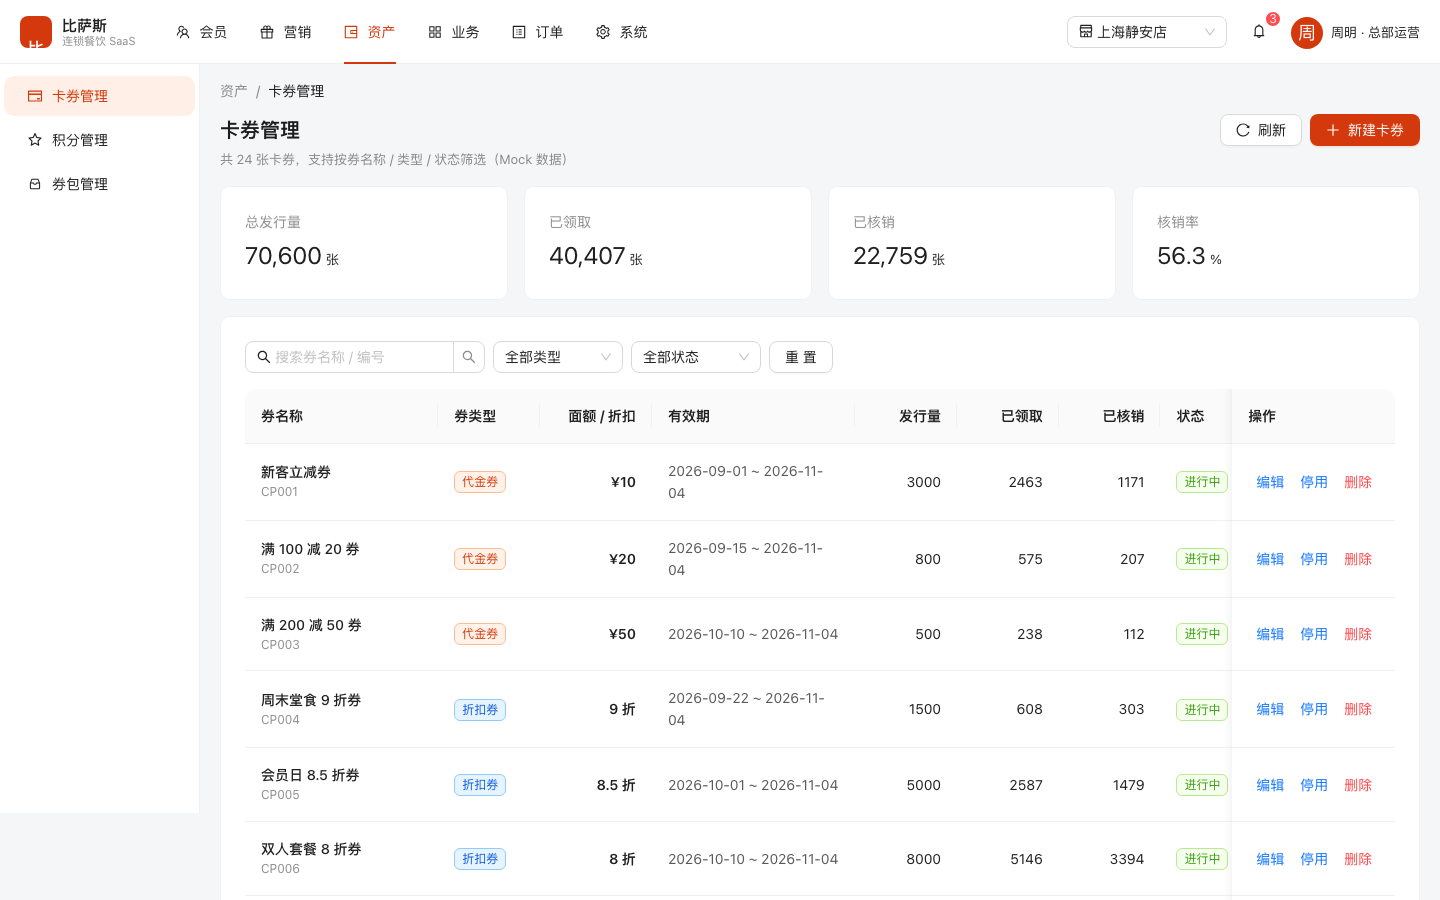
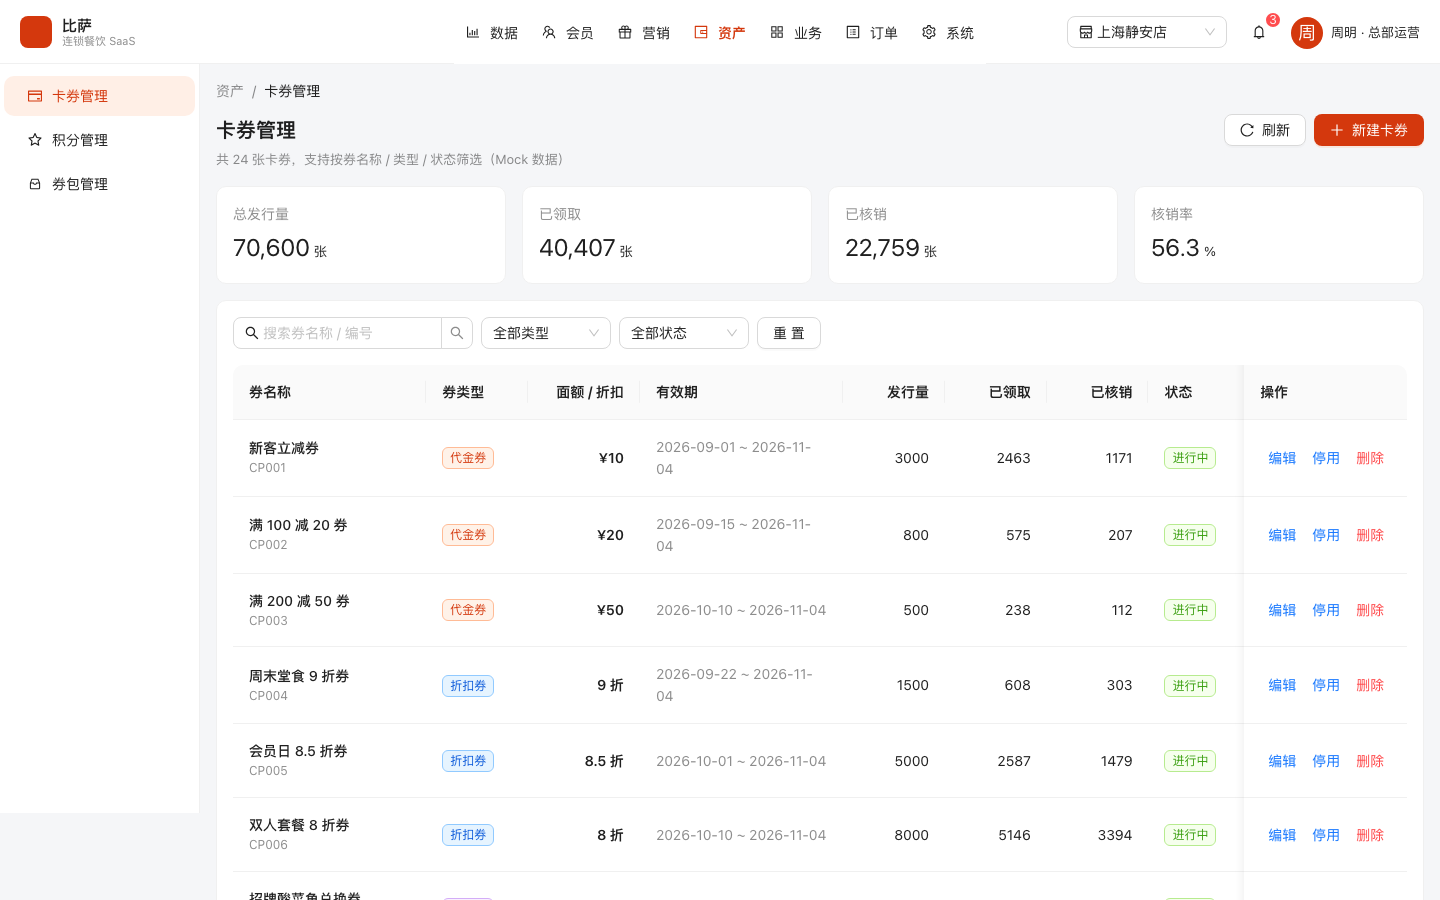
chore: 项目更名为比萨（pisa），调整 README 后端表述
- 品牌名 比萨斯 → 比萨（pisa）：页面标题、顶栏 Logo 文案、面包屑、通知模板、员工邮箱域名、主题存储 key
- 包名 bisas-admin → pisa-admin，README/PLAN/接口文档与 OpenAPI 标题同步
- README 不再表述「不做后端」，改为：本仓库为前端部分，后端由后端团队按 docs/api 契约实现
- 截图按新品牌重新生成（浅色 + 夜间）

diff --git a/src/mock/marketing.ts b/src/mock/marketing.ts
@@ -645,16 +645,16 @@ const notificationSeed: Array<[string, NotificationScene]> = [
 const notificationContentPool: Record<NotificationScene, string[]> = {
   activityStart: [
     '尊敬的{会员昵称}，您关注的「{活动名称}」将在 {开始时间} 开始，满 100 减 20，限时 3 天，欢迎到店品尝～',
-    '【比萨斯】「{活动名称}」已开启！全场满 200 减 50，会员额外赠甜品券，活动截止 {结束时间}，快来参与吧。',
+    '【比萨】「{活动名称}」已开启！全场满 200 减 50，会员额外赠甜品券，活动截止 {结束时间}，快来参与吧。',
     '您好，{活动名称} 报名成功，活动期间到店消费满 129 元即可享受满减，详情可咨询门店服务员。',
   ],
   couponArrived: [
-    '【比萨斯】您有一张「{券名称}」已到账，有效期至 {失效时间}，可在门店消费时出示核销，逾期作废。',
+    '【比萨】您有一张「{券名称}」已到账，有效期至 {失效时间}，可在门店消费时出示核销，逾期作废。',
     '亲爱的{会员昵称}，{券名称} 已放入您的卡券包，消费满 100 元即可使用，本券不与其他优惠同享。',
     '【券到账提醒】「{券名称}」已发放至您的账户，请在 {失效时间} 前使用，过期不补。',
   ],
   orderStatus: [
-    '【比萨斯】您的订单 {订单号} 已支付成功，厨房正在准备，预计 20 分钟内出餐，请耐心等待。',
+    '【比萨】您的订单 {订单号} 已支付成功，厨房正在准备，预计 20 分钟内出餐，请耐心等待。',
     '您的订单 {订单号} 已出餐完成，请凭取餐号 {取餐号} 到取餐台领取，祝您用餐愉快！',
     '订单 {订单号} 退款申请已受理，退款将在 1-3 个工作日内原路退回，请注意查收。',
   ],

diff --git a/src/layouts/AdminLayout.tsx b/src/layouts/AdminLayout.tsx
@@ -66,7 +66,7 @@ export default function AdminLayout() {
         >
           {/* Logo 占位：只保留矩形容器，等正式 Logo 图片替换 */}
           <div
-            aria-label="比萨斯 Logo"
+            aria-label="比萨 Logo"
             style={{
               width: 32,
               height: 32,
@@ -76,7 +76,7 @@ export default function AdminLayout() {
             }}
           />
           <div style={{ lineHeight: 1.2 }}>
-            <div style={{ fontWeight: 600, fontSize: 15 }}>比萨斯</div>
+            <div style={{ fontWeight: 600, fontSize: 15 }}>比萨</div>
             <div style={{ fontSize: 11, color: 'var(--text-secondary)' }}>连锁餐饮 SaaS</div>
           </div>
         </div>
@@ -163,7 +163,7 @@ export default function AdminLayout() {
         <Content style={{ padding: '16px', minWidth: 0 }}>
           <Breadcrumb
             items={[
-              { title: activeModule?.label ?? '比萨斯' },
+              { title: activeModule?.label ?? '比萨' },
               ...(activeChild ? [{ title: activeChild.label }] : []),
             ]}
             style={{ marginBottom: 12 }}

diff --git a/index.html b/index.html
@@ -3,11 +3,11 @@
   <head>
     <meta charset="UTF-8" />
     <meta name="viewport" content="width=device-width, initial-scale=1.0" />
-    <title>比萨斯 · 连锁餐饮 SaaS 管理后台</title>
+    <title>比萨（pisa）· 连锁餐饮 SaaS 管理后台</title>
     <script>
       // 在 React 挂载前应用主题，避免夜间模式刷新时闪白
       try {
-        var stored = localStorage.getItem('bisas-theme');
+        var stored = localStorage.getItem('pisa-theme');
         if (stored === 'light' || stored === 'dark') {
           document.documentElement.dataset.theme = stored;
         } else if (window.matchMedia && window.matchMedia('(prefers-color-scheme: dark)').matches) {

diff --git a/src/mock/ops.ts b/src/mock/ops.ts
@@ -294,7 +294,7 @@ export const staff: Staff[] = Array.from({ length: 26 }, (_, i) => {
     storeName: pick(rng, stores).name,
     status,
     joinedAt: stamp(joined).slice(0, 10),
-    email: `staff${pad(i + 1, 3)}@bisas.com`,
+    email: `staff${pad(i + 1, 3)}@pisa.com`,
     role: pick(rng, staffRolePool),
     lastLogin: status === 'disabled' ? '账号已停用' : stamp(login),
     loginIp:

diff --git a/src/services/ops.ts b/src/services/ops.ts
@@ -273,7 +273,7 @@ export async function saveStaff(input: StaffInput): Promise<Staff> {
     storeName: input.storeName,
     status: input.status,
     joinedAt: input.joinedAt,
-    email: `staff${String(seq).padStart(3, '0')}@bisas.com`,
+    email: `staff${String(seq).padStart(3, '0')}@pisa.com`,
     role: '门店员工',
     lastLogin: '—',
     loginIp: '—',

diff --git a/src/theme.tsx b/src/theme.tsx
@@ -3,7 +3,7 @@ import type { ReactNode } from 'react';
 
 export type ThemeMode = 'light' | 'dark';
 
-const STORAGE_KEY = 'bisas-theme';
+const STORAGE_KEY = 'pisa-theme';
 
 interface ThemeContextValue {
   mode: ThemeMode;

diff --git a/README.md b/README.md
@@ -1,8 +1,8 @@
-# 比萨斯 · 连锁餐饮 SaaS 管理后台（前端原型）
+# 比萨（pisa）· 连锁餐饮 SaaS 管理后台（前端原型）
 
 ![CI](https://github.com/xinyunz631-beep/pisa/actions/workflows/ci.yml/badge.svg)
 
-纯前端页面原型：**不做后端**，所有数据来自内存 Mock 层，交互（筛选、分页、增删改、抽屉详情）都能真实点。
+本仓库是**前端部分**：页面 + 内存 Mock 数据，筛选、分页、增删改、抽屉详情等交互都能真实操作。后端服务由后端团队按 [`docs/api/`](./docs/api/README.md) 的接口契约实现，不在本仓库范围内；当前 Mock 层用于后端就绪前的页面联调与演示，接后端时只需替换 `src/services/*` 的实现。
 
 ## 技术栈
 
@@ -18,7 +18,7 @@
 ## 快速开始
 
 ```bash
-cd 比萨斯
+cd 比萨
 npm install
 npm run dev      # http://127.0.0.1:5173
 npm run build    # 类型检查 + 生产构建
@@ -28,7 +28,7 @@ npm run build    # 类型检查 + 生产构建
 
 ```
 src/
-├── config/nav.tsx        # 导航唯一配置：6 大模块 + 每个模块的二级菜单 + 路由
+├── config/nav.tsx        # 导航唯一配置：7 个模块 + 每个模块的二级菜单 + 路由
 ├── theme.tsx             # 浅色 / 夜间主题（localStorage 持久化 + 跟随系统）
 ├── layouts/AdminLayout.tsx  # 顶部横排模块菜单 / 左侧二级菜单 / 内容区
 ├── pages/
@@ -44,7 +44,7 @@ src/
 │   ├── AfterSale/        # 售后处理
 │   ├── System/           # 岗位 / 人员 / 系统日志
 │   └── Placeholder/      # 占位页
-├── components/           # KpiCard / TrendChart（经营概览使用）
+├── components/           # KpiCard / TrendChart（仪表盘使用）
 ├── services/             # Mock 接口层：member / marketing / assets / business / order / ops / dish / dashboard
 ├── mock/                 # 内存数据库：db / members / marketing / assets / business / ops
 ├── utils/format.ts       # 金额、状态文案与颜色
@@ -69,7 +69,7 @@ src/
 
 - 入口：右上角**头像下拉菜单 → 夜间模式**（带勾选状态）
 - 实现：AntD `darkAlgorithm` 全局切换 + CSS 变量（`--page-bg` / `--panel-bg` / `--border-color` / 文本色）同步变色
-- 持久化：选择写入 `localStorage`（key `bisas-theme`）；首次进入跟随系统 `prefers-color-scheme`
+- 持久化：选择写入 `localStorage`（key `pisa-theme`）；首次进入跟随系统 `prefers-color-scheme`
 - 首屏防闪烁：`index.html` 内联脚本在 React 挂载前先设置 `<html data-theme>`
 
 ## Mock 数据的边界
@@ -116,7 +116,7 @@ src/
 
 ## 团队协作
 
-20 个页面由 Lead + 4 个智能体队员并行完成：营销 5 页、资产 3 页、业务 3 页、售后+系统 4 页各自独立目录与 Mock/Service 层，Lead 负责导航、会员 3 页、公共约定、集成与验收（`tsc`、`vite build`、20 条路由无头渲染检查、截图）。
+21 个页面由 Lead + 4 个智能体队员并行完成：营销 5 页、资产 3 页、业务 3 页、售后+系统 4 页各自独立目录与 Mock/Service 层，Lead 负责数据/会员模块、导航与公共约定、集成与验收（`tsc`、`vite build`、21 条路由无头渲染检查、截图）。
 
 ## 接口契约文档（给后端）
 

diff --git a/docs/api/08-ops.md b/docs/api/08-ops.md
@@ -212,7 +212,7 @@ processing（处理中）──┤
 | `storeName` | string | 所属门店名称，如 `武汉江汉路店` |
 | `status` | string | 人员状态，见 3.6 |
 | `joinedAt` | string | 入职日期 `YYYY-MM-DD`，不得晚于当天 |
-| `email` | string | 邮箱，Mock 规则 `staff{3 位序号}@bisas.com`，新增时服务端生成，不可编辑 |
+| `email` | string | 邮箱，Mock 规则 `staff{3 位序号}@pisa.com`，新增时服务端生成，不可编辑 |
 | `role` | string | 权限角色，如 `门店员工`；新增时服务端默认 `门店员工`，不可由表单指定 |
 | `lastLogin` | string | 最近登录时间；停用账号显示「账号已停用」 |
 | `loginIp` | string | 最近登录 IP；停用账号显示「—」 |
@@ -582,7 +582,7 @@ processing（处理中）──┤
       "storeName": "武汉江汉路店",
       "status": "active",
       "joinedAt": "2026-09-10",
-      "email": "staff001@bisas.com",
+      "email": "staff001@pisa.com",
       "role": "客服专员",
       "lastLogin": "2026-10-18 13:04",
       "loginIp": "192.168.3.86"
@@ -596,7 +596,7 @@ processing（处理中）──┤
       "storeName": "武汉江汉路店",
       "status": "disabled",
       "joinedAt": "2026-10-23",
-      "email": "staff005@bisas.com",
+      "email": "staff005@pisa.com",
       "role": "客服专员",
       "lastLogin": "账号已停用",
       "loginIp": "—"
@@ -675,7 +675,7 @@ processing（处理中）──┤
   "storeName": "上海静安店",
   "status": "active",
   "joinedAt": "2026-11-01",
-  "email": "staff027@bisas.com",
+  "email": "staff027@pisa.com",
   "role": "门店员工",
   "lastLogin": "—",
   "loginIp": "—"
@@ -685,7 +685,7 @@ processing（处理中）──┤
 - **业务规则**：
   - `id` 服务端生成：Mock 规则为 `S` + 内存自增序号补零 3 位（当前 26 条 → 新增为 `S027`）。**Mock 使用内存计数器，刷新后会按 `staff.length` 重置；生产必须使用独立发号器**；
   - **工号唯一**：去空格转大写后校验（排除自身）；重复返回 `40900`（`message: "工号已存在，请更换"`）；
-  - **服务端默认值**（忽略客户端传值）：`email = staff{3 位 id 序号}@bisas.com`、`role = 门店员工`、`lastLogin = "—"`、`loginIp = "—"`；
+  - **服务端默认值**（忽略客户端传值）：`email = staff{3 位 id 序号}@pisa.com`、`role = 门店员工`、`lastLogin = "—"`、`loginIp = "—"`；
   - 姓名/工号去空格；手机号、入职日期校验失败 → `40001`；岗位/门店不存在 → `40001`；
   - 新增人员默认不创建登录账号（Mock 无账号开通流程）；生产建议异步创建账号并返回初始密码/邀请状态，或在人员详情中单独「开通账号」；
   - 前端保存成功后重新拉取列表并关闭抽屉。
@@ -715,7 +715,7 @@ processing（处理中）──┤
   "storeName": "西安钟楼店",
   "status": "active",
   "joinedAt": "2026-09-06",
-  "email": "staff002@bisas.com",
+  "email": "staff002@pisa.com",
   "role": "总部管理员",
   "lastLogin": "2026-10-31 11:43",
   "loginIp": "192.168.3.22"

diff --git a/PLAN.md b/PLAN.md
@@ -1,6 +1,6 @@
-# 比萨斯 · 建设规划
+# 比萨 · 建设规划
 
-> 定位：**连锁餐饮 SaaS 管理后台的前端原型**。不做后端、不接数据库，页面可点、数据可看、交互可演示，用于快速对齐需求与视觉。
+> 定位：**连锁餐饮 SaaS 管理后台的前端侧实现**（页面 + Mock 数据），用于快速对齐需求与视觉。后端服务由后端团队按 `docs/api/` 的接口契约实现，不在本仓库范围内；前后端就绪后替换 `src/services/*` 实现即可联调。
 
 ## 一、范围与边界
 
@@ -10,16 +10,16 @@
 - 内存 Mock 数据 + 模拟接口层（带 loading、分页、增删改）
 - 中文文案、空态、加载态、错误提示等交互细节
 
-**不做（明确排除）：**
-- 真实后端、数据库、鉴权服务
+**不在本仓库范围内：**
+- 后端服务、数据库、鉴权服务（由后端团队实现，接口契约见 `docs/api/`）
 - 真实支付 / 打印 / 消息推送等外部集成
-- 大数据量性能优化（原型阶段用前端分页即可）
+- 大数据量性能优化（当前阶段用前端分页即可）
 
 ## 二、技术方案
 
 - React 18 + TypeScript + Vite 6 + Ant Design 5
 - 菜单与路由由 `src/config/nav.tsx` 单一配置驱动（顶部模块 + 二级菜单 + 路由）
-- Mock 分两层：`src/mock/*`（数据）+ `src/services/*`（接口形状），未来替换后端时页面零改动
+- Mock 分两层：`src/mock/*`（数据）+ `src/services/*`（接口形状），接入后端时页面零改动
 - 图表用自研轻量 SVG 组件，避免为原型引入重图表库
 
 ## 三、阶段计划

diff --git a/docs/api/03-marketing.md b/docs/api/03-marketing.md
@@ -900,7 +900,7 @@
   "scene": "couponArrived",
   "channel": "wechat",
   "notifyMethod": "template",
-  "content": "【比萨斯】您有一张「{券名称}」已到账，有效期至 {失效时间}，可在门店消费时出示核销，逾期作废。"
+  "content": "【比萨】您有一张「{券名称}」已到账，有效期至 {失效时间}，可在门店消费时出示核销，逾期作废。"
 }
 ```
 
@@ -913,8 +913,8 @@
   "scene": "couponArrived",
   "channel": "wechat",
   "notifyMethod": "template",
-  "content": "【比萨斯】您有一张「{券名称}」已到账，有效期至 {失效时间}，可在门店消费时出示核销，逾期作废。",
-  "summary": "【比萨斯】您有一张「{券名称}」已到账，有效期至 {失效时间}，可在…",
+  "content": "【比萨】您有一张「{券名称}」已到账，有效期至 {失效时间}，可在门店消费时出示核销，逾期作废。",
+  "summary": "【比萨】您有一张「{券名称}」已到账，有效期至 {失效时间}，可在…",
   "sendCount": 0,
   "status": "enabled",
   "updatedAt": "2026-11-04 09:30:00"

diff --git a/docs/api/README.md b/docs/api/README.md
@@ -1,4 +1,4 @@
-# 比萨斯 · 接口契约（由前端 Mock 反推）
+# 比萨 · 接口契约（由前端 Mock 反推）
 
 > 目的：前端原型阶段所有数据来自 `src/mock/*` + `src/services/*` 的内存 Mock。本文档把 Mock 的**入参、出参、分页、筛选、状态流转**固化为后端接口契约，作为后端实现与前后端联调的依据。
 >

diff --git a/docs/github-push.md b/docs/github-push.md
@@ -13,7 +13,7 @@
 ## 日常使用
 
 ```bash
-cd 比萨斯
+cd 比萨
 git status            # 看改动
 git add -A
 git commit -m "feat: xxx"
